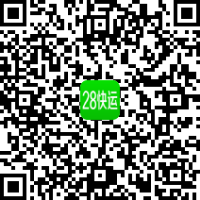
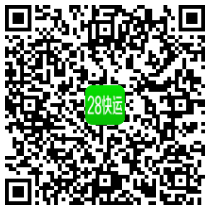
调整修复问题

diff --git a/pages/wuliu/detail.vue b/pages/wuliu/detail.vue
@@ -139,11 +139,11 @@
           </div>
           <div class="w1036" >
             <dl class="zx_bt" >
+              <dd class="bt05">物流公司</dd>
               <dd class="bt01">出发地&nbsp;&rarr;&nbsp;到达地</dd>
               <dd class="bt02">重货价格</dd>
               <dd class="bt03">轻货价格</dd>
               <dd class="bt04">时效</dd>
-              <dd class="bt05">物流公司</dd>
               <dd class="bt06">操作</dd>
             </dl>
             <ul
@@ -161,6 +161,9 @@
                 :key="index">
                 <a
                   :href="'/zhuanxian/detail?id=' + item.id +'&publishId=' + item.publishId"
+                  target="_blank"><span class="nr05">{{ item.companyName }}</span></a>
+                <a
+                  :href="'/zhuanxian/detail?id=' + item.id +'&publishId=' + item.publishId"
                   target="_blank"><span class="nr01">{{ item.startCity }}{{ item.startArea }}&nbsp;&rarr;&nbsp;{{ item.endCity }}{{ item.endArea }}</span></a>
                 <a
                   :href="'/zhuanxian/detail?id=' + item.id +'&publishId=' + item.publishId"
@@ -171,9 +174,7 @@
                 <a
                   :href="'/zhuanxian/detail?id=' + item.id +'&publishId=' + item.publishId"
                   target="_blank"><span class="nr04">{{ item.transportAging }}{{ item.transportAgingUnit }}</span></a>
-                <a
-                  :href="'/zhuanxian/detail?id=' + item.id +'&publishId=' + item.publishId"
-                  target="_blank"><span class="nr05">{{ item.companyName }}</span></a>
+                
                 <a
                   :href="'/zhuanxian/detail?id=' + item.id +'&publishId=' + item.publishId"
                   target="_blank"><span class="nr06">详情</span></a>
@@ -261,8 +262,8 @@
                 <p class="p5"><i>电话：</i><font>{{ item.contactsTel }} {{ item.mobile }}</font></p>
               </li>
               <li class="wlzx_list_3">
-                <p class="p1"><i>经营范围：</i><span>{{ item.productService1 }}</span></P>
-                <p class="p2"><i>增值服务：</i><span>{{ item.otherService1 }}</span></p>
+                <p class="p1"><i>经营范围：</i><span>{{ (item.productServiceNameList || []).join(',') }}</span></P>
+                <p class="p2"><i>增值服务：</i><span>{{ (item.otherServiceNameList || []).join(',') }}</span></p>
               </li>
               <li class="wlzx_list_4">
                 <p
@@ -469,7 +470,7 @@ export default {
     }
 
     let vo1 = {
-      pageSize: 10,
+      pageSize: 25,
       currentPage: 1,
       otherServiceCode: '',
       orderBy: '',
@@ -664,6 +665,9 @@ export default {
 </script>
 
 <style scoped>
+.nr05 {
+  color: #fe0000;
+}
 .left_main {
   min-height: 420px;
 }

diff --git a/pages/member/_id-contactus.vue b/pages/member/_id-contactus.vue
@@ -91,6 +91,9 @@ export default {
     }
   },
   mounted() {
+    let jwd = [this.company.longitude, this.company.latitude]
+    let city = this.company.cityCode
+    let address = this.company.address
     seajs.use(
       [
         'http://api.map.baidu.com/getscript?v=2.0&ak=e0abRWFWOrgmN7emYjQGPj4Z0vyTVTfo&services=&t=20190102133327',
@@ -99,24 +102,51 @@ export default {
       ],
       function() {
         var map = new BMap.Map('allmap')
-        var obj3 = new Object()
-        obj3 = member_01()
-        var jwd = obj3.jwd
-        var newLoc = jwd.split(',')
-        var point = new BMap.Point(parseFloat(newLoc[0]), parseFloat(newLoc[1]))
-        map.centerAndZoom(point, 17)
-        var marker = new BMap.Marker(point) // 创建标注
-        map.addOverlay(marker) // 将标注添加到地图中
-        marker.setAnimation(BMAP_ANIMATION_BOUNCE) //跳动的动画
+        var fn = function(jwd, ispoint) {
+          var point = new BMap.Point(
+            jwd[0] ? parseFloat(jwd[0]) : 116.4039164169,
+            jwd[1] ? parseFloat(jwd[1]) : 39.9150048902
+          )
+          point = ispoint ? jwd : point
+          console.log('point:', point, jwd)
+          map.centerAndZoom(point, 17)
+          var marker = new BMap.Marker(point) // 创建标注
+          map.addOverlay(marker) // 将标注添加到地图中
+
+          marker.setAnimation(BMAP_ANIMATION_BOUNCE) //跳动的动画
+        }
+
+        if (jwd[0]) {
+          fn(jwd)
+        } else if (city && address) {
+          // 创建地址解析器实例
+          var myGeo = new BMap.Geocoder()
+          // 将地址解析结果显示在地图上，并调整地图视野
+          myGeo.getPoint(
+            address,
+            function(point) {
+              if (point) {
+                fn(point, true)
+              } else {
+                fn([])
+              }
+            },
+            city
+          )
+        } else {
+          fn([])
+        }
 
         //添加地图类型控件
+        // 如果有城市信息，可以通过反查地址去标记
+        //http://lbsyun.baidu.com/index.php?title=jspopular/guide/geocoding
 
         map.addControl(
           new BMap.MapTypeControl({
             mapTypes: [BMAP_NORMAL_MAP, BMAP_HYBRID_MAP]
           })
         )
-        map.setCurrentCity('广州') // 设置地图显示的城市 此项是必须设置的
+        map.setCurrentCity(city || '广州') // 设置地图显示的城市 此项是必须设置的
         map.enableScrollWheelZoom(true) //开启鼠标滚轮缩放
         var opts = { type: BMAP_NAVIGATION_CONTROL_SMALL }
         map.addControl(new BMap.NavigationControl(opts))

diff --git a/components/member/top.vue b/components/member/top.vue
@@ -70,28 +70,28 @@
             <div class="item_right item03">
               <span 
                 v-if="opdata.indexOf('AF02501')!==-1" 
-                id="fw001"><img src="/member/images/pic/item_zzfw1.png" >送货上门</span>
+                id="fw001"><img src="/images/pic/item_zzfw1.png" >送货上门</span>
               <span 
                 v-if="opdata.indexOf('AF02502')!==-1" 
-                id="fw002"><img src="/member/images/pic/item_zzfw2.png" >保价运输</span>
+                id="fw002"><img src="/images/pic/item_zzfw2.png" >保价运输</span>
               <span 
                 v-if="opdata.indexOf('AF02503')!==-1" 
-                id="fw003"><img src="/member/images/pic/item_zzfw3.png" >运费到付</span>
+                id="fw003"><img src="/images/pic/item_zzfw3.png" >运费到付</span>
               <span 
                 v-if="opdata.indexOf('AF02504')!==-1" 
-                id="fw004"><img src="/member/images/pic/item_zzfw4.png" >代收货款</span>
+                id="fw004"><img src="/images/pic/item_zzfw4.png" >代收货款</span>
               <span 
                 v-if="opdata.indexOf('AF02505')!==-1" 
-                id="fw005"><img src="/member/images/pic/item_zzfw5.png" >开发票</span>
+                id="fw005"><img src="/images/pic/item_zzfw5.png" >开发票</span>
               <span 
                 v-if="opdata.indexOf('AF02506')!==-1" 
-                id="fw006"><img src="/member/images/pic/item_zzfw6.png" >上门提货</span>
+                id="fw006"><img src="/images/pic/item_zzfw6.png" >上门提货</span>
               <span 
                 v-if="opdata.indexOf('AF02507')!==-1" 
-                id="fw007"><img src="/member/images/pic/item_zzfw7.png" >签单回收</span>
+                id="fw007"><img src="/images/pic/item_zzfw7.png" >签单回收</span>
               <span 
                 v-if="opdata.indexOf('AF02508')!==-1" 
-                id="fw008"><img src="/member/images/pic/item_zzfw8.png" >时效保障</span>
+                id="fw008"><img src="/images/pic/item_zzfw8.png" >时效保障</span>
             </div>
           </li>
           <li class="box_item">

diff --git a/components/lines/search.vue b/components/lines/search.vue
@@ -31,6 +31,14 @@
             placeholder="请选择目的地" 
             value="" >
         </div>
+        <div 
+          id="carLineToCompany" 
+          style="position:relative;">
+          <input 
+            type="text" 
+            placeholder="请填写公司名称" 
+            value="" >
+        </div>
         <span 
           id="btn1" 
           class="btn_search active">搜索</span>
@@ -117,3 +125,24 @@
   </div>
 
 </template>
+<style lang="scss" scoped>
+.real-input {
+  width: 300px;
+}
+#carLineToCompany {
+  float: left;
+  width: 200px;
+  height: 40px;
+  margin-left: 20px;
+  input {
+    line-height: 38px;
+    height: 38px;
+    padding: 0 5px;
+    width: 188px;
+    border: 1px solid #ccc;
+  }
+}
+#btn1 {
+  margin-left: 40px;
+}
+</style>

diff --git a/pages/zhuanxian/detail.vue b/pages/zhuanxian/detail.vue
@@ -336,6 +336,9 @@
               :info="linedataA.rangePrices"
               :browse="linedataA.assessNumber"/>
           </div>
+          <div 
+            v-if="false" 
+            class="import-tip">友情提示：本专线价格为参考价格，具体价格请电询。</div>
           <div class="arc_middle3">
             <div class="arc_m3"><i>运输时效：</i><span>{{ linedataA.transportAging }}{{ linedataA.transportAgingUnit.indexOf('多') != -1
               ? linedataA.transportAgingUnit.replace('多', '')
@@ -2656,6 +2659,10 @@ export default {
 </script>
 
 <style lang="scss" scoped>
+.import-tip {
+  color: #f00;
+  clear: both;
+}
 .arc_top1 {
   width: 100%;
   height: 80px;

diff --git a/components/commonFooter.vue b/components/commonFooter.vue
@@ -14,14 +14,14 @@
             </div>
             <div class="box-qr">
               <img 
-                src="/images/28fast_download.png" 
+                src="/images/twocode/huozhu.png" 
                 width="112" 
                 height="112">
               <div>28快运 货主端</div>
             </div>
             <div class="box-qr">
               <img
-                src="/images/28fast_download.png"
+                src="/images/twocode/chezhu.png"
                 width="112"
                 height="112">
               <div>28快运 车主端</div>

diff --git a/static/line/js/list_line.js b/static/line/js/list_line.js
@@ -170,6 +170,8 @@
     endp = encodeURI(endp)
     endc = encodeURI(endc)
     enda = encodeURI(enda)
+    var companyName = encodeURI($.trim($('#carLineToCompany input').val()))
+
     window.open(
       '/zhuanxian/list?tid=4&startp=' +
         startp +
@@ -182,7 +184,9 @@
         '&endc=' +
         endc +
         '&enda=' +
-        enda
+        enda +
+        '&companyName=' +
+        companyName
     )
   })
   //零担下单 E查询零担运费

diff --git a/pages/wuliu/list.vue b/pages/wuliu/list.vue
@@ -76,7 +76,7 @@
                     v-model="vo.parkName"
                     type="text"
                     class="list_input"
-                    placeholder="请选择园区名称" >
+                    placeholder="请输入园区名称" >
                   <input
                     id="search_wlyq"
                     value=" 搜索 "

diff --git a/pages/shixiao/index.vue b/pages/shixiao/index.vue
@@ -107,7 +107,7 @@
             <div class="order_content">
               <div class="imgbox">
                 <img 
-                  src="/images/28fast_download.png" 
+                  src="/images/twocode/huozhu.png" 
                   width="100" 
                   height="100">
               </div>

diff --git a/pages/zhuanxian/_id/index.vue b/pages/zhuanxian/_id/index.vue
@@ -105,7 +105,7 @@ export default {
     let content = con.data */
   },
   mounted() {
-    seajs.use(['/line/js/list_line.js', '/line/js/list_line_more.js'])
+    seajs.use(['/line/js/list_line.js?V2', '/line/js/list_line_more.js'])
   },
   methods: {},
   async fetch({ store, params, $axios, error }) {

diff --git a/pages/shixiao/detail.vue b/pages/shixiao/detail.vue
@@ -76,7 +76,7 @@
           <div class="order_content">
             <div class="imgbox">
               <img 
-                src="/images/28fast_download.png" 
+                src="/images/twocode/huozhu.png" 
                 width="100" 
                 height="100">
             </div>

diff --git a/pages/shixiao/index - 副本.vue b/pages/shixiao/index - 副本.vue
@@ -76,7 +76,7 @@
           <div class="order_content">
             <div class="imgbox">
               <img 
-                src="/images/28fast_download.png" 
+                src="/images/twocode/huozhu.png" 
                 width="100" 
                 height="100">
             </div>
